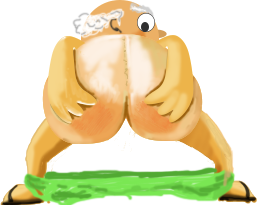
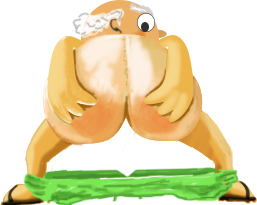
Fixed bug

diff --git a/GameJam/GameJam/main.cpp b/GameJam/GameJam/main.cpp
@@ -15,8 +15,8 @@ int main()
 {
 	RenderWindow window(VideoMode(1100, 768, 32), "Mettre ici le nom du jeu", Style::Close | Style::Titlebar);
 
-	Texture image, sky, clouds, buildings, img, pigeon, play, quit, credit;
-	Sprite hero, sSky, sClouds, sBuildings, sPlay, sQuit, sCredit;
+	Texture image, sky, clouds, buildings, img, pigeon, play, quit, credit, ground;
+	Sprite hero, sSky, sClouds, sBuildings, sPlay, sQuit, sCredit, sGround;
 	HUD	hud;
 	Papi papi;
 	bool down = true;
@@ -34,14 +34,15 @@ int main()
 	Spigeon.push_back(new Pigeon);
 	Spigeon.push_back(new Pigeon);
 
-	if (sky.loadFromFile("sky.jpg") == 0
-		|| clouds.loadFromFile("clouds.png") == 0
-		|| buildings.loadFromFile("buildings.png") == 0
+	if (sky.loadFromFile("fond.png") == 0
+		|| clouds.loadFromFile("nuages.png") == 0
+		|| buildings.loadFromFile("batiment.png") == 0
 		|| img.loadFromFile("poop.jpg") == 0
 		|| pigeon.loadFromFile("pigeon.png") == 0
 		|| play.loadFromFile("play.png") == 0
 		|| quit.loadFromFile("play.png") == 0
-		|| credit.loadFromFile("play.png") == 0)
+		|| credit.loadFromFile("play.png") == 0
+		|| ground.loadFromFile("tale-sol.png") == 0)
 	{
 		std::cerr << "Load image faild" << std::endl;
 		return EXIT_FAILURE;
@@ -72,10 +73,15 @@ int main()
 			  rCredit(300, 300, credit.getSize().x, credit.getSize().y);
 	sSky.setTexture(sky);
 	sSky.setPosition(0, 0);
+	sSky.setScale(0.5,0.5);
 	sClouds.setTexture(clouds);
 	sClouds.setPosition(0, 0);
+	sClouds.setScale(0.5,0.5);
 	sBuildings.setTexture(buildings);
 	sBuildings.setPosition(0, 0);
+	sBuildings.setScale(0.5,0.5);
+	sGround.setTexture(ground);
+	sGround.setPosition(0, 745);
 
 	Clock clock;
 	while (window.isOpen())
@@ -142,13 +148,14 @@ int main()
 		window.draw(sSky);
 		window.draw(sClouds);
 		window.draw(sBuildings);
-		papi.update(window);
+		window.draw(sGround);
 		hud.update(window);
+		papi.update(window);
 
 		unsigned int i;
 		for (i = 0; i < Spoop.size(); ++i)
 		{
-			if (i == Spoop.size() - 1 && Spoop[i]->getPosition().y > papi.getPosition().y + 400)
+			if (i == Spoop.size() - 1 && Spoop[i]->getPosition().y > papi.getPosition().y + 200)
 				down = true;
 			if (!ok[i])
 			{

diff --git a/GameJam/GameJam/Pigeon.hpp b/GameJam/GameJam/Pigeon.hpp
@@ -10,6 +10,7 @@ public:
 	{
 		_texture.loadFromFile("pigeon.png");
 		_sprite.setTexture(_texture);
+		_sprite.setScale(1,1);
 		if ((_direction = ((rand() % 100) / 50) ? true : false))
 			_sprite.setScale(-1, 1);
 		_sprite.setPosition(-1100 + (float)(rand() % 2200), 500);
@@ -32,8 +33,9 @@ public:
 		}
 		for (auto it = poop.begin(); it != poop.end(); ++it)
 		{
-			if ((*it)->getPosition().x >= _sprite.getPosition().x + _texture.getSize().x &&
-				(*it)->getPosition().x <= _sprite.getPosition().x + _texture.getSize().x + 30)
+			if ((*it)->getPosition().y>= _sprite.getPosition().y
+				&& (*it)->getPosition().x + (*it)->getTexture()->getSize().x>= _sprite.getPosition().x - (_direction ? _texture.getSize().x : 0)
+				&& (*it)->getPosition().x <= _sprite.getPosition().x + _texture.getSize().x - (_direction ? _texture.getSize().x : 0))
 				_sprite.setScale(1.2f, 1.2f);
 		}
 		window.draw(_sprite);

diff --git a/GameJam/GameJam/Papi.hpp b/GameJam/GameJam/Papi.hpp
@@ -15,8 +15,10 @@ public:
 public:
 	Papi(void)
 	{
+		_sprite.setPosition(70, 100);
 		_texture.loadFromFile("papi.png");
 		_sprite.setTexture(_texture);
+		_sprite.setScale(0.7,0.7);
 	}
 	~Papi(void) {}
 
@@ -26,12 +28,12 @@ public:
 		switch (_direction)
 		{
 		case Papi::Direction::Left:
-			pos.x -= 5;
+			pos.x -= 8;
 			if (pos.x < 0)
 				pos.x = 0;
 			break ;
 		case Papi::Direction::Right:
-			pos.x += 5;
+			pos.x += 8;
 			if (pos.x > 1100 - _texture.getSize().x)
 				pos.x = 1100.0f - _texture.getSize().x;
 			break;
